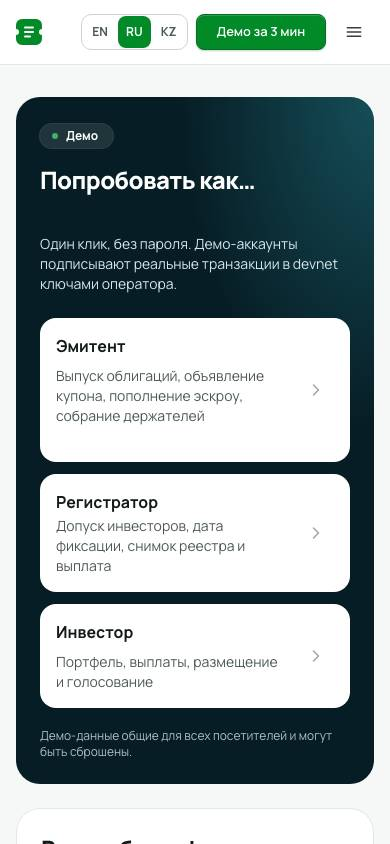
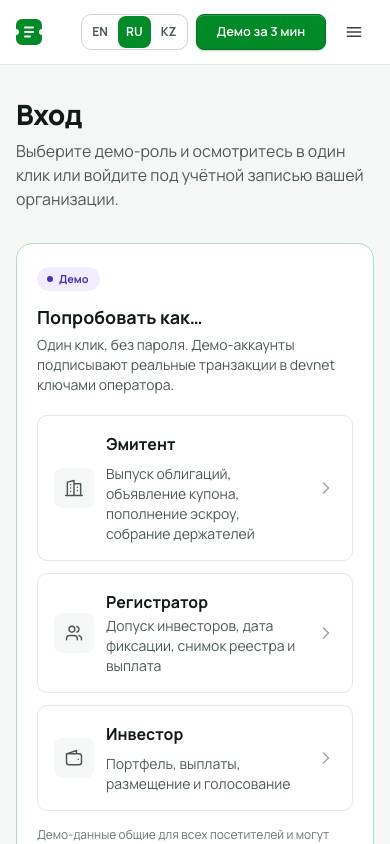
wip(91530): resume previous attempt

diff --git a/apps/web/src/app/(public)/login/LoginForm.tsx b/apps/web/src/app/(public)/login/LoginForm.tsx
@@ -32,6 +32,7 @@ function useEnter(next?: string) {
     );
 }
 
+/** Email + password: the secondary path on /login (the one-click demo identities need no account). */
 export function SignInCard({ next }: { next?: string }) {
   const t = useTranslations("login");
   const enter = useEnter(next);
@@ -67,16 +68,16 @@ export function SignInCard({ next }: { next?: string }) {
   return (
     <form
       onSubmit={submit}
-      className="h-full rounded-hero border border-n200 bg-n0 p-6 sm:p-8"
+      className="h-full rounded-card border border-n200 bg-n0 p-5 sm:p-6"
       noValidate
     >
-      <h1 className="text-2xl font-extrabold tracking-tight">
-        <StableText>{t("title")}</StableText>
-      </h1>
-      <p className="mt-1.5 text-sm text-n600">
-        <StableText>{t("lead")}</StableText>
+      <h2 className="text-lg font-bold text-n900">
+        <StableText>{t("emailTitle")}</StableText>
+      </h2>
+      <p className="mt-1 text-sm text-n600">
+        <StableText>{t("emailLead")}</StableText>
       </p>
-      <div className="mt-6 space-y-4">
+      <div className="mt-5 space-y-4">
         <TextField
           label={t("email")}
           type="email"
@@ -109,12 +110,12 @@ export function SignInCard({ next }: { next?: string }) {
         <StableText>{t("accountsNote")}</StableText>
       </p>
       <p className="mt-4 border-t border-n100 pt-4 text-sm text-n600">
-        {t("newInvestor")}{" "}
+        <StableText>{t("newInvestor")}</StableText>{" "}
         <Link
           href="/signup"
-          className="font-semibold text-g700 hover:underline"
+          className="font-semibold text-g700 underline-offset-2 hover:underline"
         >
-          {t("createAccount")}
+          <StableText>{t("createAccount")}</StableText>
         </Link>
       </p>
     </form>
@@ -122,11 +123,12 @@ export function SignInCard({ next }: { next?: string }) {
 }
 
 const DEMO = [
-  { role: "issuer", home: "issuer" },
-  { role: "registrar", home: "registrar" },
-  { role: "investor", home: "investor_demo" },
+  { role: "issuer", home: "issuer", icon: "building" },
+  { role: "registrar", home: "registrar", icon: "users" },
+  { role: "investor", home: "investor_demo", icon: "wallet" },
 ] as const;
 
+/** The primary path on /login: one click per role, no password, no wallet (design language v2, task 91530). */
 export function DemoPanel({ next }: { next?: string }) {
   const t = useTranslations("login.demo");
   const enter = useEnter(next);
@@ -152,73 +154,71 @@ export function DemoPanel({ next }: { next?: string }) {
   };
 
   return (
-    <div className="relative h-full overflow-hidden rounded-hero bg-p900 p-6 text-white sm:p-8">
-      <div
-        aria-hidden
-        className="absolute inset-0 bg-[radial-gradient(90%_80%_at_100%_0%,var(--color-p500)_0%,transparent_60%)] opacity-60"
-      />
-      <div className="relative">
-        <span className="inline-flex items-center gap-2 rounded-full bg-white/10 px-3 py-1 text-xs font-bold ring-1 ring-white/15">
-          <span className="size-1.5 rounded-full bg-g400" />
-          <StableText>{t("badge")}</StableText>
-        </span>
-        <h2 className="mt-4 text-2xl font-extrabold tracking-tight">
-          <StableText>{t("title")}</StableText>
-        </h2>
-        <p className="mt-1.5 text-sm text-p100">
-          <StableText>{t("lead")}</StableText>
-        </p>
-        {/* A plain form posts to the server before hydration (slow phones); once hydrated the click handler takes over. */}
-        <form
-          method="post"
-          action="/api/session/demo"
-          className="mt-6 grid gap-3"
-        >
-          {next && <input type="hidden" name="next" value={next} />}
-          {DEMO.map((d) => (
-            <button
-              key={d.role}
-              type="submit"
-              name="role"
-              value={d.role}
-              onClick={(e) => {
-                e.preventDefault();
-                void start(d);
-              }}
-              disabled={!!pending}
-              aria-busy={pending === d.role || undefined}
-              className="group flex items-center gap-4 rounded-card bg-n0 p-4 text-left text-n900 transition hover:bg-g50 disabled:opacity-70"
+    <section className="h-full rounded-card border border-g200 bg-n0 p-5 sm:p-6">
+      <span className="inline-flex items-center gap-1.5 rounded-full bg-demo-bg px-2.5 py-1 text-micro font-bold text-demo-fg">
+        <span aria-hidden className="size-1.5 rounded-full bg-current" />
+        <StableText>{t("badge")}</StableText>
+      </span>
+      <h2 className="mt-3 text-lg font-bold text-n900">
+        <StableText>{t("title")}</StableText>
+      </h2>
+      <p className="mt-1 text-sm text-n600">
+        <StableText>{t("lead")}</StableText>
+      </p>
+      {/* A plain form posts to the server before hydration (slow phones); once hydrated the click handler takes over. */}
+      <form
+        method="post"
+        action="/api/session/demo"
+        className="mt-5 grid gap-3"
+      >
+        {next && <input type="hidden" name="next" value={next} />}
+        {DEMO.map((d) => (
+          <button
+            key={d.role}
+            type="submit"
+            name="role"
+            value={d.role}
+            onClick={(e) => {
+              e.preventDefault();
+              void start(d);
+            }}
+            disabled={!!pending}
+            aria-busy={pending === d.role || undefined}
+            className="group flex min-h-16 items-center gap-3 rounded-btn border border-n200 bg-n0 p-4 text-left transition hover:border-g300 hover:bg-g50 disabled:opacity-70 sm:gap-4"
+          >
+            <span
+              aria-hidden
+              className="grid size-10 shrink-0 place-items-center rounded-sm bg-n50 text-n600 transition-colors group-hover:bg-g100 group-hover:text-g700"
             >
-              <span className="min-w-0 flex-1">
-                <span className="block font-bold">
-                  <StableText>{t(`${d.role}.title`)}</StableText>
-                </span>
-                <span className="mt-0.5 block text-sm text-n600">
-                  <StableText>{t(`${d.role}.text`)}</StableText>
-                </span>
+              {pending === d.role ? (
+                <span className="size-4 animate-spin rounded-full border-2 border-current border-t-transparent" />
+              ) : (
+                <Icon name={d.icon} className="size-5" />
+              )}
+            </span>
+            <span className="min-w-0 flex-1">
+              <span className="block text-base font-bold text-n900">
+                <StableText>{t(`${d.role}.title`)}</StableText>
               </span>
-              <span
-                aria-hidden
-                className="flex size-9 shrink-0 items-center justify-center text-n400 transition group-hover:translate-x-0.5 group-hover:text-g600"
-              >
-                {pending === d.role ? (
-                  <span className="size-4 animate-spin rounded-full border-2 border-current border-t-transparent" />
-                ) : (
-                  <Icon name="chevronRight" className="size-5" />
-                )}
+              <span className="mt-0.5 block text-sm text-n600">
+                <StableText>{t(`${d.role}.text`)}</StableText>
               </span>
-            </button>
-          ))}
-        </form>
-        {error && (
-          <p role="alert" className="mt-4 text-sm font-semibold text-[#ffb4b4]">
-            {error}
-          </p>
-        )}
-        <p className="mt-5 text-xs text-p100/80">
-          <StableText>{t("note")}</StableText>
+            </span>
+            <Icon
+              name="chevronRight"
+              className="size-5 shrink-0 text-n400 transition group-hover:translate-x-0.5 group-hover:text-g600"
+            />
+          </button>
+        ))}
+      </form>
+      {error && (
+        <p role="alert" className="mt-4 text-sm font-semibold text-err-fg">
+          {error}
         </p>
-      </div>
-    </div>
+      )}
+      <p className="mt-4 text-xs text-n500">
+        <StableText>{t("note")}</StableText>
+      </p>
+    </section>
   );
 }

diff --git a/apps/web/src/app/(public)/signup/page.tsx b/apps/web/src/app/(public)/signup/page.tsx
@@ -17,39 +17,45 @@ export default async function SignupPage() {
   if (user) redirect(ROLE_HOME[user.role]);
   const t = await getTranslations("account.signup");
   return (
-    <div className="mx-auto grid max-w-[1100px] gap-6 px-4 py-8 sm:px-6 sm:py-14 lg:grid-cols-[1fr_1.15fr] lg:items-stretch">
-      <SignupForm />
-      <aside className="relative h-full overflow-hidden rounded-hero bg-p900 p-6 text-white sm:p-8">
-        <div
-          aria-hidden
-          className="absolute inset-0 bg-[radial-gradient(90%_80%_at_100%_0%,var(--color-p500)_0%,transparent_60%)] opacity-60"
-        />
-        <div className="relative">
-          <h2 className="text-2xl font-extrabold tracking-tight">
+    <div className="mx-auto max-w-[1100px] px-4 py-8 sm:px-6 sm:py-14">
+      <h1 className="text-title font-extrabold tracking-tight text-n900">
+        <StableText>{t("title")}</StableText>
+      </h1>
+      <p className="mt-2 max-w-2xl text-base text-n600">
+        <StableText>{t("lead")}</StableText>
+      </p>
+      <div className="mt-8 grid items-start gap-6 lg:grid-cols-[1.15fr_1fr]">
+        <SignupForm />
+        {/* The sequence the account unlocks, led by its steps (design language v2, task 91530). */}
+        <aside className="h-full rounded-card border border-n200 bg-n0 p-5 sm:p-6">
+          <h2 className="text-lg font-bold text-n900">
             <StableText>{t("steps.title")}</StableText>
           </h2>
-          <ol className="mt-6 space-y-5">
+          <ol className="mt-5 space-y-5">
             {STEPS.map((s, i) => (
               <li key={s} className="flex gap-4">
-                <span className="grid size-8 shrink-0 place-items-center rounded-full bg-white/10 text-sm font-bold ring-1 ring-white/20">
+                <span
+                  aria-hidden
+                  className="grid size-8 shrink-0 place-items-center rounded-full bg-g50 text-sm font-bold text-g700 ring-1 ring-g200"
+                >
                   {i + 1}
                 </span>
                 <div>
-                  <div className="font-bold">
+                  <div className="font-bold text-n900">
                     <StableText>{t(`steps.${s}.title`)}</StableText>
                   </div>
-                  <p className="mt-0.5 text-sm text-white/70">
+                  <p className="mt-0.5 text-sm text-n600">
                     <StableText>{t(`steps.${s}.text`)}</StableText>
                   </p>
                 </div>
               </li>
             ))}
           </ol>
-          <p className="mt-6 text-xs text-white/60">
+          <p className="mt-6 border-t border-n100 pt-4 text-xs text-n500">
             <StableText>{t("steps.note")}</StableText>
           </p>
-        </div>
-      </aside>
+        </aside>
+      </div>
     </div>
   );
 }

diff --git a/apps/web/src/app/(public)/login/page.tsx b/apps/web/src/app/(public)/login/page.tsx
@@ -1,6 +1,7 @@
 import Link from "next/link";
 import { redirect } from "next/navigation";
 import { getTranslations } from "next-intl/server";
+import { StableText } from "@/components/i18n/StableLabel";
 import { Button } from "@/components/ui/Button";
 import { safeNext } from "@/lib/boClient";
 import { ROLE_HOME, getSession } from "@/lib/session";
@@ -28,8 +29,15 @@ export default async function LoginPage({
   const roles = await getTranslations("cabinet.roles");
   return (
     <div className="mx-auto max-w-[1100px] px-4 py-8 sm:px-6 sm:py-14">
+      {/* The demo identities are the primary path: h1 and lead name them first (design language v2, task 91530). */}
+      <h1 className="text-title font-extrabold tracking-tight text-n900">
+        <StableText>{t("title")}</StableText>
+      </h1>
+      <p className="mt-2 max-w-2xl text-base text-n600">
+        <StableText>{t("lead")}</StableText>
+      </p>
       {user && (
-        <div className="mb-6 flex flex-col gap-3 rounded-card border border-g200 bg-g50 px-5 py-4 sm:flex-row sm:items-center sm:justify-between">
+        <div className="mt-6 flex flex-col gap-3 rounded-card border border-g200 bg-g50 px-5 py-4 sm:flex-row sm:items-center sm:justify-between">
           <p className="text-sm text-n800">
             {t("signedInAs", { name: user.name, role: roles(user.role) })}
           </p>
@@ -38,13 +46,15 @@ export default async function LoginPage({
           </Button>
         </div>
       )}
-      <div className="grid gap-6 lg:grid-cols-[1fr_1.15fr] lg:items-stretch">
+      <div
+        className={
+          demoLogin
+            ? "mt-8 grid items-start gap-6 lg:grid-cols-[1.15fr_1fr]"
+            : "mt-8 grid max-w-xl gap-6"
+        }
+      >
+        {demoLogin && <DemoPanel next={next} />}
         <SignInCard next={next} />
-        {demoLogin && (
-          <div className="order-first lg:order-none">
-            <DemoPanel next={next} />
-          </div>
-        )}
       </div>
     </div>
   );

diff --git a/apps/web/src/app/(public)/signup/SignupForm.tsx b/apps/web/src/app/(public)/signup/SignupForm.tsx
@@ -61,16 +61,16 @@ export function SignupForm() {
   return (
     <form
       onSubmit={submit}
-      className="h-full rounded-hero border border-n200 bg-n0 p-6 sm:p-8"
+      className="h-full rounded-card border border-n200 bg-n0 p-5 sm:p-6"
       noValidate
     >
-      <h1 className="text-2xl font-extrabold tracking-tight">
-        <StableText>{t("title")}</StableText>
-      </h1>
-      <p className="mt-1.5 text-sm text-n600">
-        <StableText>{t("lead")}</StableText>
+      <h2 className="text-lg font-bold text-n900">
+        <StableText>{t("formTitle")}</StableText>
+      </h2>
+      <p className="mt-1 text-sm text-n600">
+        <StableText>{t("formLead")}</StableText>
       </p>
-      <div className="mt-6 space-y-4">
+      <div className="mt-5 space-y-4">
         <TextField
           label={t("name")}
           autoComplete="name"
@@ -120,10 +120,13 @@ export function SignupForm() {
       >
         {t("submit")}
       </Button>
-      <p className="mt-4 text-sm text-n600">
-        {t("haveAccount")}{" "}
-        <Link href="/login" className="font-semibold text-g700 hover:underline">
-          {t("signIn")}
+      <p className="mt-4 border-t border-n100 pt-4 text-sm text-n600">
+        <StableText>{t("haveAccount")}</StableText>{" "}
+        <Link
+          href="/login"
+          className="font-semibold text-g700 underline-offset-2 hover:underline"
+        >
+          <StableText>{t("signIn")}</StableText>
         </Link>
       </p>
     </form>

diff --git a/reports/questions/91530-paying-agent-demo.md b/reports/questions/91530-paying-agent-demo.md
@@ -1,0 +1,15 @@
+# 91530 — paying agent as a one-click demo role?
+
+Task 91530 asks for one-click demo cards for "issuer, registrar, investor, paying agent" on
+`/login`. The backend has no paying-agent identity: `services/registrar/internal/api/auth.go`
+maps exactly `issuer|registrar|investor` (investor → `investor_demo`), and the web `Role` type
+(`apps/web/src/lib/session.ts`) has no paying-agent value — the paying agent is an operator
+wallet, and its step ("Confirm bank payout") is pushed from the registrar console
+(`e2e/guidance.spec.ts`).
+
+**Default taken:** shipped the three working demo roles; a fourth card that errors on click
+would be worse than none. The registrar card's line already names the payout step.
+
+**If a paying-agent demo identity is wanted**, it needs its own task: Go `demoRoles` + store
+role, web `Role`/`ROLE_HOME`, a home cabinet (or a read-only view of bank-routed payouts),
+mock sessions, and e2e. Roughly a backend+web task, not a design one.

diff --git a/reports/worklog/91530.md b/reports/worklog/91530.md
@@ -1,0 +1,6 @@
+# 91530 — login and sign-up in the v2 design
+
+- Rebuilt /login and /signup on the v2 language: demo roles as the primary card (icon, one line per role, ≥44 px targets, no-JS form post kept), email sign-in secondary, signup gets a numbered steps aside. All test ids kept; `login.spec.ts` unchanged.
+- Paying agent has no backend identity (Go auth maps issuer|registrar|investor only) — three demo roles shipped; default recorded in `reports/questions/91530-paying-agent-demo.md`.
+- Final round (worktree glm-1): reinstalled deps, typecheck/lint/unit green (249 tests), login+sweep+locale-stability e2e 15 passed in mock mode, `make verify` green, rebased onto main.
+- Screenshots en/ru/kk × 1440/390 in `reports/design/91530-login/`.
